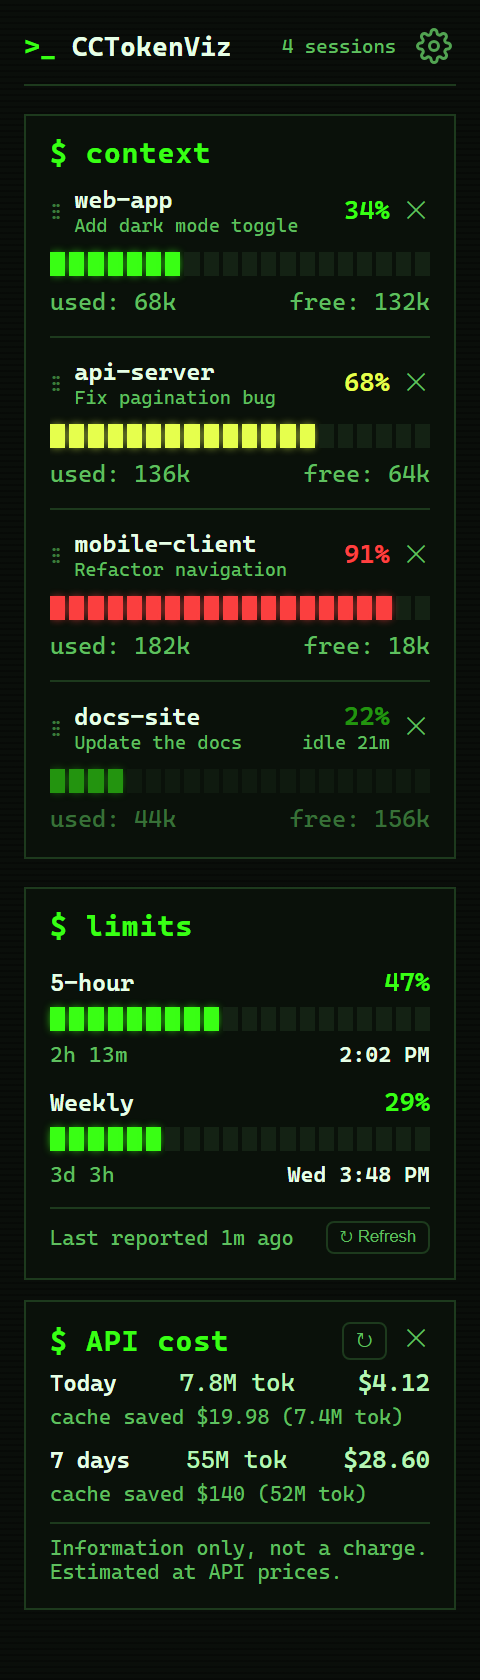
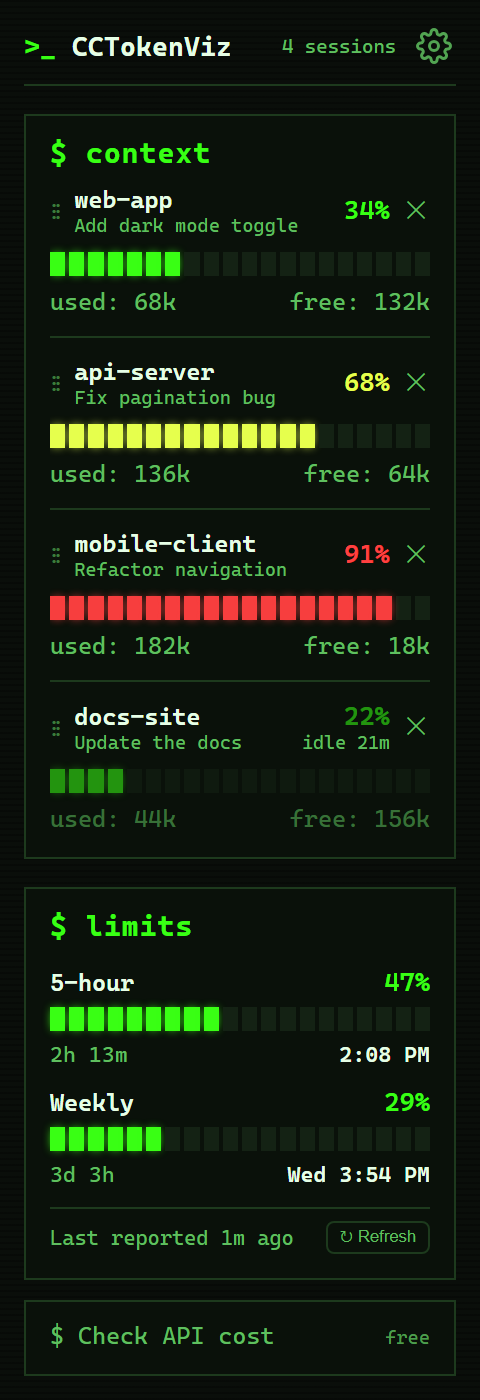
Token cost for limit checks: full note in setup, one line in Settings; README shows the default view

diff --git a/frontend/settings.js b/frontend/settings.js
@@ -177,18 +177,19 @@ function windowSection() {
         </div>`;
 }
 
-function limitsSection() {
+// The full explanation is for the setup wizard; Settings gets a one-line version
+function limitsSection(brief) {
     const minutes = cfg.pollMinutes || 10;
     const opts = [5, 10, 15, 30].map(m => `<option value="${m}" ${minutes === m ? 'selected' : ''}>every ${m} minutes</option>`).join('');
     return `
         <div class="section">
             <h2 class="section-title">Limits</h2>
             <label><input type="checkbox" id="poll" ${cfg.pollLimits ? 'checked' : ''} ${hasCli ? '' : 'disabled'}> Check my 5-hour and weekly limits automatically</label>
-            <div class="hint">${hasCli ? '<span class="ok">Claude Code found.</span>' : '<span class="bad">Claude Code (the claude command) was not found, so this is unavailable.</span>'}
+            ${brief ? `<div class="hint">${hasCli ? '<span class="ok">Claude Code found.</span>' : '<span class="bad">Claude Code not found, so this is unavailable.</span>'} Each check uses about 1K tokens of your plan. Off by default.</div>` : `<div class="hint">${hasCli ? '<span class="ok">Claude Code found.</span>' : '<span class="bad">Claude Code (the claude command) was not found, so this is unavailable.</span>'}
                 Each check runs one tiny request under your own Claude login: under 1,000 tokens, roughly $0.0002 at API prices. It slowly draws on your plan limits (or bills your API key, if the claude command uses one), and CCTokenViz never sees or stores your login.
-                It only checks while a session is active, and stops once a limit is used up.</div>
+                It only checks while a session is active, and stops once a limit is used up.</div>`}
             <div class="row"><span>Frequency</span><select id="pollMin" ${cfg.pollLimits ? '' : 'disabled'}>${opts}</select></div>
-            <div class="hint">Off by default. Without it, limits update only when a terminal session reports them (see the README) and the ↻ Refresh button does nothing.</div>
+            ${brief ? '' : '<div class="hint">Off by default. Without it, limits update only when a terminal session reports them (see the README) and the ↻ Refresh button does nothing.</div>'}
         </div>`;
 }
 
@@ -207,7 +208,7 @@ function renderSettings() {
     overlay().innerHTML = `
         <h2>Settings</h2>
         <p class="lead">Changes save as you make them.</p>
-        ${lookSection()}${projectsSection()}${contextSection()}${limitsSection()}${windowSection()}
+        ${lookSection()}${projectsSection()}${contextSection()}${limitsSection(true)}${windowSection()}
         <div class="nav">
             <button class="btn" data-action="rerun">Run setup again</button>
             <span class="spacer"></span>

diff --git a/scripts/screenshots.py b/scripts/screenshots.py
@@ -14,7 +14,7 @@ BROWSERS = [
 ]
 # (file, theme, spend panel open, window height)
 SHOTS = [
-    ("screenshot.png", "linux", True, 840),
+    ("screenshot.png", "linux", False, 700),
 ]
 
 def main():

diff --git a/README.md b/README.md
@@ -9,7 +9,7 @@ A lightweight desktop app that shows how much room you have left in Claude Code:
 Forked from [gosparq/claudewatch](https://github.com/gosparq/claudewatch) (MIT). Not affiliated with Anthropic.
 
 <p align="center">
-  <img src="docs/screenshot.png" alt="CCTokenViz in the Terminal theme: context per project, 5-hour and weekly limits, and the on-demand API cost shown" width="224">
+  <img src="docs/screenshot.png" alt="CCTokenViz in the Terminal theme: context per project, 5-hour and weekly limits, and the on-demand "Check API cost" button at the bottom" width="224">
 </p>
 
 ## Why?
